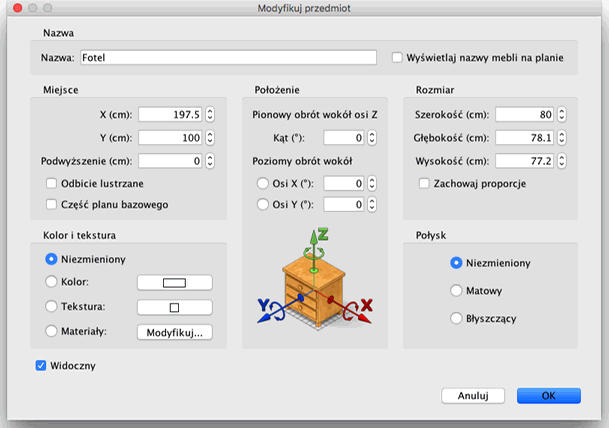
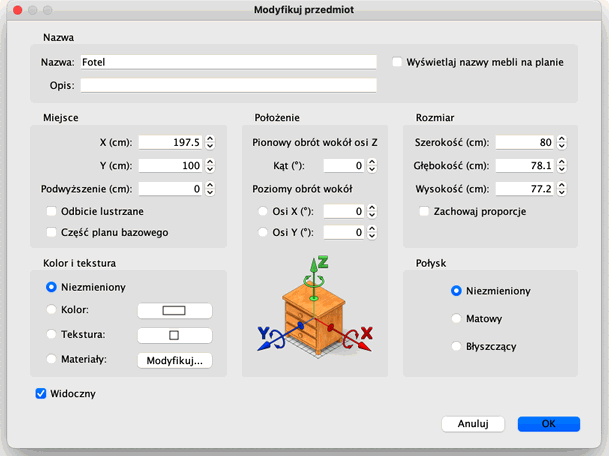
Updated help for description field
git-svn-id: https://svn.code.sf.net/p/sweethome3d/code/trunk/SweetHome3D@8444 03e323e1-6c6c-46a5-9f71-c4ce5d8c6204

diff --git a/src/com/eteks/sweethome3d/viewcontroller/resources/help/en/editingFurniture.html b/src/com/eteks/sweethome3d/viewcontroller/resources/help/en/editingFurniture.html
@@ -109,7 +109,7 @@
 	  <p>A piece of furniture  may also be  edited thanks to its pane, by double-clicking on that piece in 
 	    the home plan or furniture list, or by choosing <i>Furniture &gt; Modify...</i> after selecting it.</p>
 	    <p align="center"><img src="images/editingFurniture.png" alt="Modify furniture"></p>
-	    <p>In the furniture pane, you may change its name, the abscissa (X) and 
+	    <p>In the furniture pane, you may change its name, its description, the abscissa (X) and 
           the ordinate (Y) of its center, the elevation of its bottom from the 
           floor, its width, its depth, its height, its color or its texture, its 
           shininess, its visibility, its rotation angles, whether its name should 
@@ -124,7 +124,9 @@
 	    <p>The <i>Furniture materials</i> pane displays the list of materials you can edit, and a 3D preview 
 	    of the color and texture changes you made, because materials may not always have  some clear or translated names 
 	    (like <i>bone2</i> instead of <i>mattress</i> or <i>flyellow</i> instead of <i>frame</i> in the previous figure). 
-      When necessary, you can also  rotate the object in the 3D preview with the mouse and  modify more than a material at the same time after selecting them in the list.</p></td>
+	    When necessary, you may modify more than a material at the same time after selecting them in the list and 
+	    rotate the piece of furniture with a mouse drag on the background of the 3D preview.
+	    If you click on a part of the piece in the preview, its matching material will be selected in the list.</p></td>
 	</tr>
 </table>
 <div id="taskbox">
